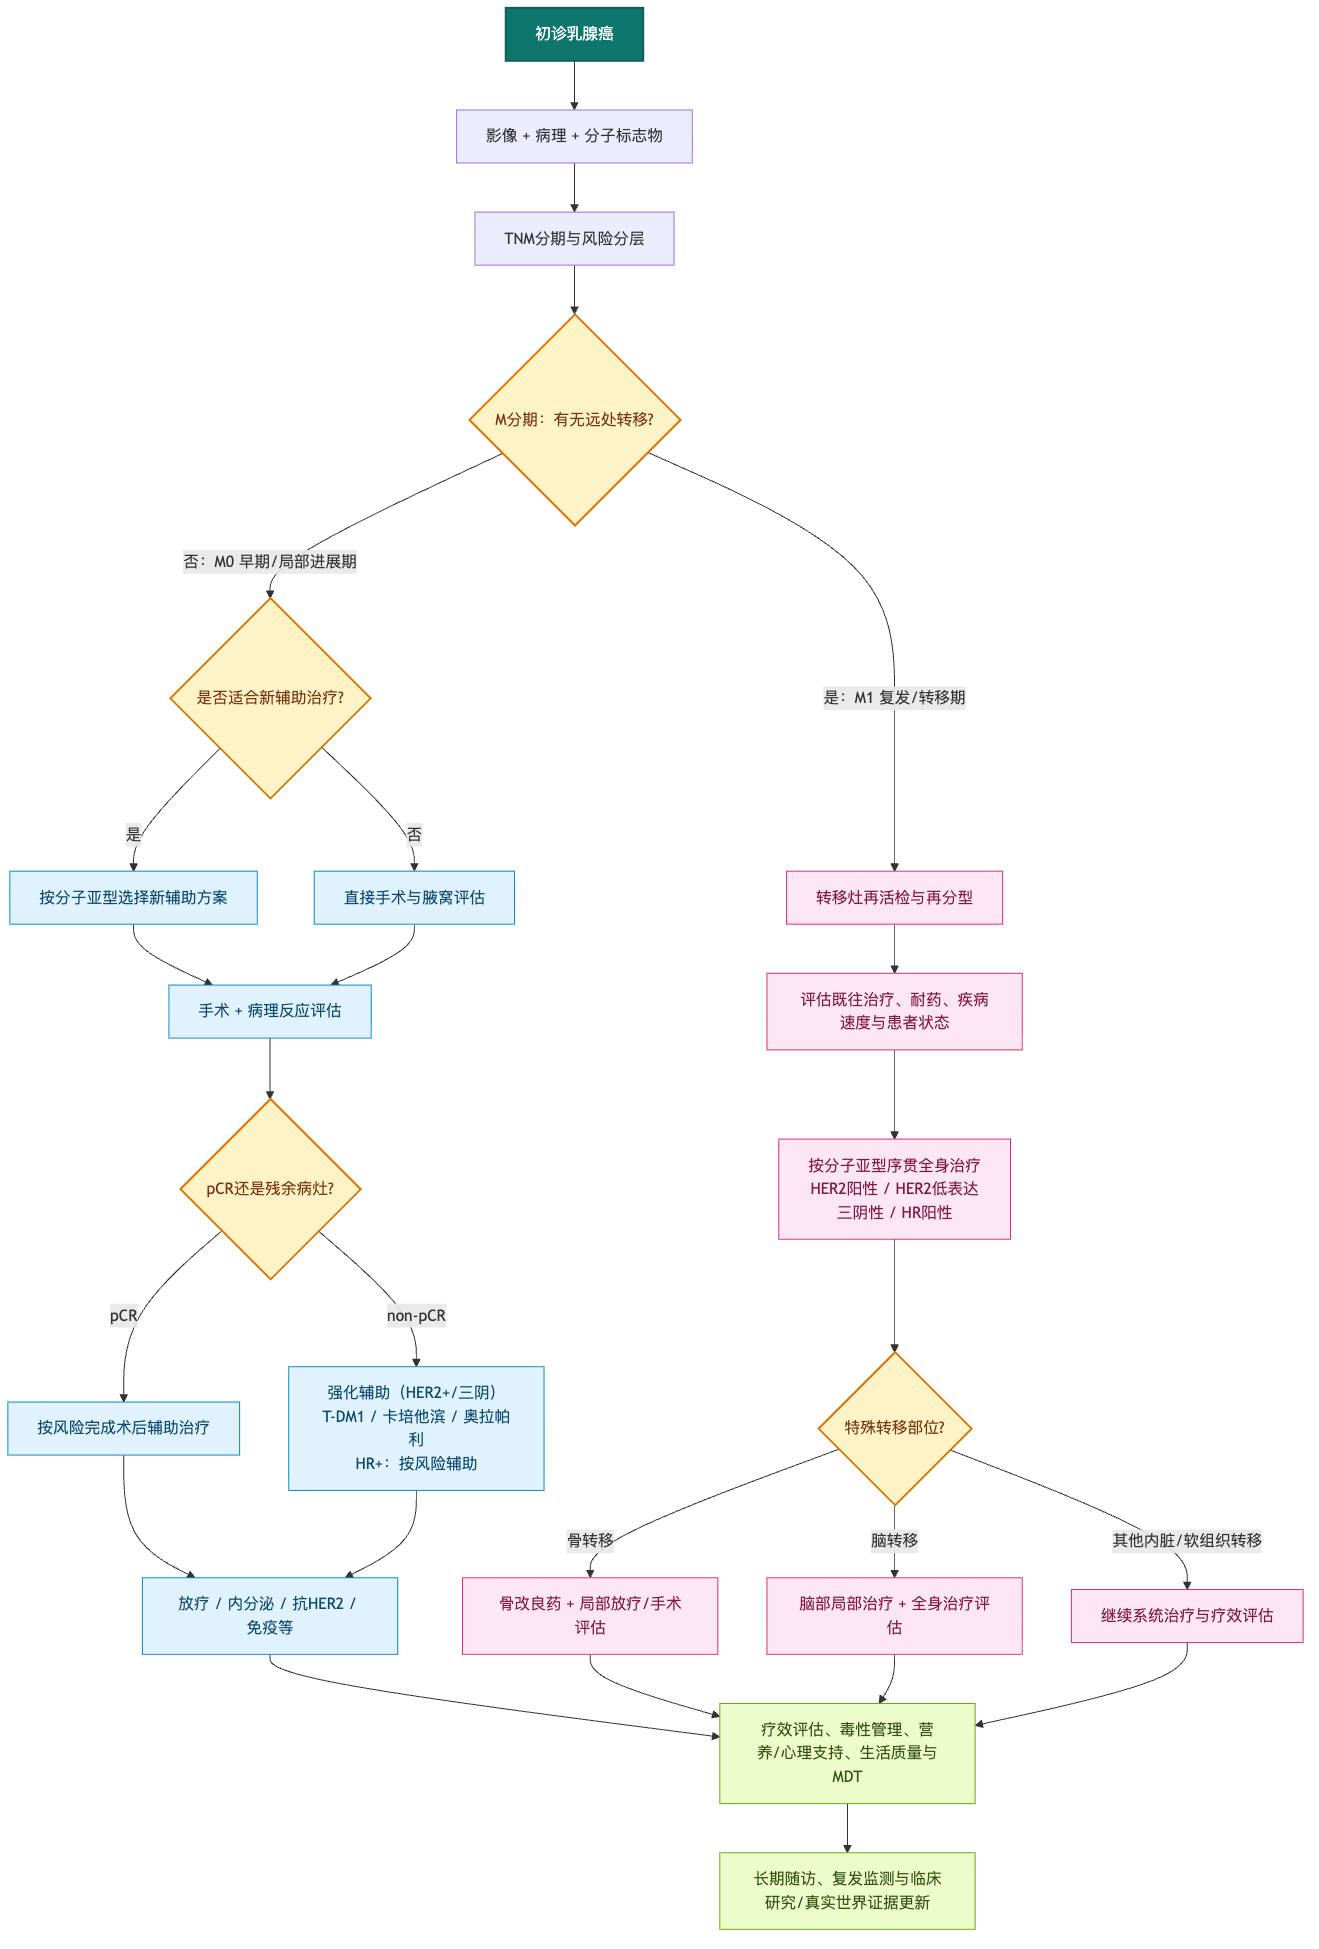
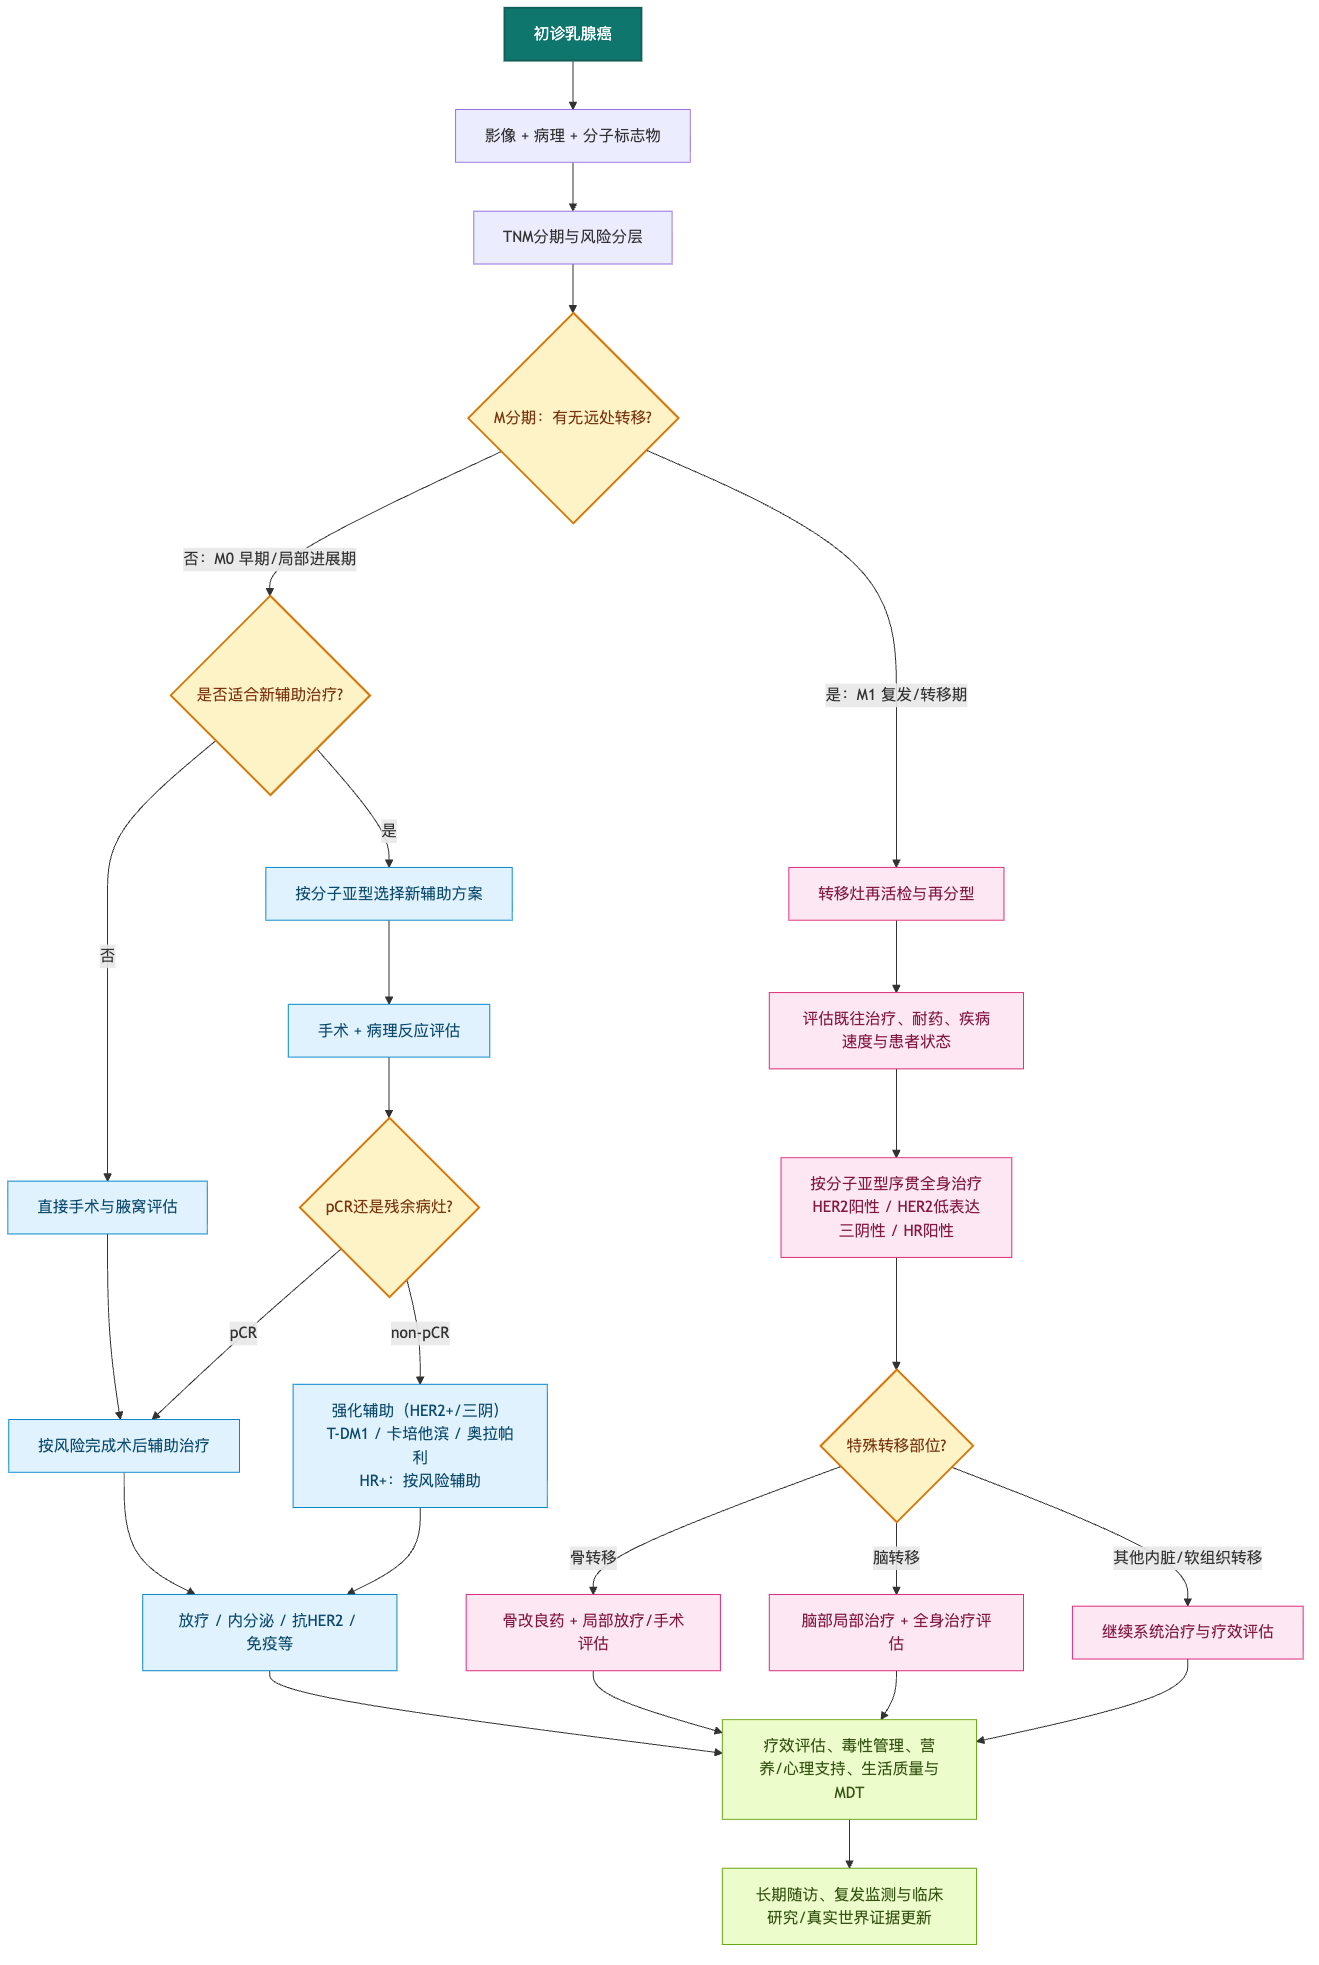
Fix direct-surgery path (G->J) and harden decision-chain tracer
Diagram: direct surgery skips the neoadjuvant-only pCR assessment and
goes straight to risk-based adjuvant (G->J instead of G->H).

Tracer: resolve the early-stage path (surgery/neoadjuvant/pCR), flag
suspected-but-unverified metastasis as "M pending", recognize IHC
+++/++/+ and FISH-positive notation, and include 病程摘要/首程 docs in
narrative extraction (previously misclassified REAL-003/004/006).

diff --git a/knowledge_base/trace_decision_chain.py b/knowledge_base/trace_decision_chain.py
@@ -48,7 +48,7 @@ EDGES = [
     ("A", "B", ""), ("B", "C", ""), ("C", "D", ""),
     ("D", "E", "否：M0 早期/局部进展期"),
     ("E", "F", "是"), ("E", "G", "否"),
-    ("F", "H", ""), ("G", "H", ""),
+    ("F", "H", ""), ("G", "J", ""),
     ("H", "I", ""),
     ("I", "J", "pCR"), ("I", "K", "non-pCR"),
     ("J", "L", ""), ("K", "L", ""),
@@ -67,14 +67,17 @@ def load_case(case_id):
 
 
 def _narrative(pd):
-    """拼接叙事文本，优先入院/出院/首次病程记录。"""
+    """拼接叙事文本（入院/病程/出院/摘要等），排除知情同意类模板。"""
     docs = pd.get("standard_inpatient_documentations", [])
     picked = []
     for doc in docs:
         name = doc.get("standard_record_item_name") or doc.get("record_item_name") or ""
         rt = doc.get("record_text") or doc.get("original_record_text") or ""
-        if rt and any(k in name for k in ("入院记录", "首次病程", "出院记录", "出院小结")):
-            picked.append(rt)
+        if not rt:
+            continue
+        if any(k in name for k in ("知情", "告知", "同意", "委托", "授权", "确认", "证明", "首页")):
+            continue
+        picked.append(rt)
     return "\n".join(picked)
 
 
@@ -109,10 +112,10 @@ def extract(pd):
         mm = re.search(p, text)
         return mm.group(0) if mm else ""
 
-    er = _find(r"ER\s*\([^)]*\)") or _find(r"ER[（(][^）)]*[）)]")
-    pr = _find(r"PR\s*\([^)]*\)") or _find(r"PR[（(][^）)]*[）)]")
-    her2 = _find(r"HER-?2\s*\([^)]*\)")
-    ki67 = _find(r"[Kk]i-?67\s*\([^)]*\)")
+    er = _find(r"(?<!H)ER[^，。;；()（）]{0,3}[（(][^）)]*[）)]")
+    pr = _find(r"PR[^，。;；()（）]{0,3}[（(][^）)]*[）)]")
+    her2 = _find(r"HER-?2\s*[（(][^）)]*[）)]")
+    ki67 = _find(r"[Kk]i-?67\s*[（(][^）)]*[）)]") or _find(r"[Kk]i-?67\s*\d+%")
     fish = ""
     if re.search(r"FISH[^。；]*扩增\s*阴性|FISH[^。；]*阴性", text):
         fish = "FISH扩增阴性"
@@ -121,8 +124,27 @@ def extract(pd):
 
     # 分子分型（优先读诊断结论，其次按 IHC 规则判读）
     def _pos(s):
-        m = re.search(r"(\d+)", s or "")
+        # ER/PR 阳性：含 + 号，或数字 ≥1（% / 分）
+        if not s:
+            return False
+        if "+" in s:
+            return True
+        m = re.search(r"(\d+)", s)
         return bool(m) and int(m.group(1)) >= 1
+
+    def _her2_level(s):
+        # +++/3+ → 3；++/2+ → 2；+/1+ → 1；-/0 → 0
+        if not s:
+            return None
+        raw = re.search(r"[（(]([^）)]*)[）)]", s)
+        raw = raw.group(1) if raw else s
+        if re.search(r"\+\+\+", raw) or re.search(r"3\+", raw):
+            return 3
+        if re.search(r"\+\+", raw) or re.search(r"2\+", raw):
+            return 2
+        if re.search(r"\+", raw) or re.search(r"1\+", raw):
+            return 1
+        return 0
 
     subtype = ""
     for kw, label in (("HER2阳性型", "HER2阳性型"), ("HER2低表达", "HER2低表达型"),
@@ -131,19 +153,18 @@ def extract(pd):
             subtype = label
             break
     if not subtype:
-        h = re.search(r"HER-?2\s*[（(](\d)\+[）)]", text)
-        if h:
-            ihc = h.group(1)
-            if ihc == "3":
+        if "扩增阳性" in fish or "ISH阳性" in fish:
+            subtype = "HER2阳性型"
+        else:
+            lv = _her2_level(her2)
+            if lv == 3:
                 subtype = "HER2阳性型"
-            elif ihc == "2":
+            elif lv == 2:
                 subtype = "HER2阳性型" if "扩增阳性" in fish else ("HER2低表达型" if "阴性" in fish else "HER2待核验(IHC2+)")
-            elif ihc == "1":
+            elif lv == 1:
                 subtype = "HER2低表达型"
-            else:  # IHC 0
+            else:  # HER2 阴性（- / 0 / 0分）
                 subtype = "三阴性" if not (_pos(er) or _pos(pr)) else "HR阳性/HER2阴性"
-        else:  # HER2 阴性（“-”/“阴性”/“0分”等）
-            subtype = "三阴性" if not (_pos(er) or _pos(pr)) else "HR阳性/HER2阴性"
 
     # 转移部位：只在「X继发恶性肿瘤 / X转移」语境下命中，避免误伤体检/正常描述
     sites = []
@@ -154,6 +175,13 @@ def extract(pd):
             sites.append(site)
 
     m1 = "M1" in tnm or stage.startswith("IV") or "Ⅳ" in stage or bool(sites)
+    m_uncertain = (not m1) and bool(re.search(r"疑似转移|转移[^。；，)]{0,6}待", blob))
+
+    # 早期阶段处理方式
+    neoadjuvant = bool(re.search(r"新辅助", text))
+    surgery = bool(re.search(r"切除术|根治术|保乳术|前哨淋巴结活检|腋窝淋巴结清扫|全乳切除", text))
+    pcr = bool(re.search(r"pCR|病理学完全缓解|MP\s*5\s*级|RCB\s*0", text))
+    non_pcr = bool(re.search(r"non-?pCR|非pCR|未达pCR|未达病理学完全缓解|残余病灶|RCB\s*[IⅡⅢ]", text))
 
     # 治疗
     tx = []
@@ -172,6 +200,8 @@ def extract(pd):
         "gender": gender, "age": age, "tnm": tnm, "stage": stage,
         "subtype": subtype, "er": er, "pr": pr, "her2": her2, "ki67": ki67, "fish": fish,
         "sites": sites, "m1": m1, "tx": tx, "diags": diags, "text": text,
+        "neoadjuvant": neoadjuvant, "surgery": surgery, "pcr": pcr, "non_pcr": non_pcr,
+        "m_uncertain": m_uncertain,
     }
 
 
@@ -183,6 +213,7 @@ def trace(f):
     steps.append(("C", f"{f['tnm']} {f['stage']}".strip(), ""))
 
     path = ["A", "B", "C"]
+    resolved = True
     if f["m1"]:
         steps.append(("D", "存在远处转移", f"是：M1（{ '、'.join(f['sites']) or '见病历' }）"))
         steps.append(("M", "转移灶/原发灶再活检 + 再分型", ""))
@@ -200,15 +231,43 @@ def trace(f):
         if any(s in f["sites"] for s in ("肝", "肺")) or not f["sites"]:
             steps.append(("S", "其他内脏/软组织转移 → 继续系统治疗", "其他内脏转移"))
             path.append("S")
+    elif f.get("m_uncertain"):
+        steps.append(("D", "M分期待核实（疑似转移，需活检/PET确认）", "待核实"))
+        path.append("D")
+        resolved = False
     else:
         steps.append(("D", "无远处转移", "否：M0 早期/局部进展期"))
         steps.append(("E", "是否适合新辅助治疗（肿块大/LN+/HER2+/三阴/保乳意愿）", ""))
-        # 早期路径无法仅凭结构化字段确定，给出分支提示即可
         path += ["D", "E"]
+        if f["neoadjuvant"]:
+            steps.append(("F", "按分子亚型选择新辅助方案", "是"))
+            steps.append(("H", "手术 + 病理反应评估", ""))
+            path += ["F", "H"]
+            if f["pcr"]:
+                steps.append(("I", "达到病理学完全缓解", "pCR"))
+                steps.append(("J", "按风险完成术后辅助治疗", ""))
+                path += ["I", "J"]
+            elif f["non_pcr"]:
+                steps.append(("I", "残余病灶", "non-pCR"))
+                steps.append(("K", "强化辅助（HER2+/三阴）", ""))
+                path += ["I", "K"]
+            else:
+                steps.append(("I", "pCR/non-pCR 需病理反应记录（MP/RCB/ypTNM）", ""))
+                path.append("I")
+            steps.append(("L", "放疗 / 内分泌 / 抗HER2 / 免疫等", ""))
+            path.append("L")
+        elif f["surgery"]:
+            steps.append(("G", "直接手术 + 腋窝评估", "否"))
+            steps.append(("J", "按风险完成术后辅助治疗", ""))
+            steps.append(("L", "放疗 / 内分泌 / 抗HER2 / 免疫等", ""))
+            path += ["G", "J", "L"]
+        else:
+            resolved = False
 
-    steps.append(("T", "疗效评估、毒性管理、营养/心理支持、MDT", ""))
-    steps.append(("U", "长期随访、复发监测", ""))
-    path += ["T", "U"]
+    if resolved:
+        steps.append(("T", "疗效评估、毒性管理、营养/心理支持、MDT", ""))
+        steps.append(("U", "长期随访、复发监测", ""))
+        path += ["T", "U"]
 
     # 由 path_nodes 推导走的边（按 EDGES 顺序匹配相邻节点）
     edges = []
